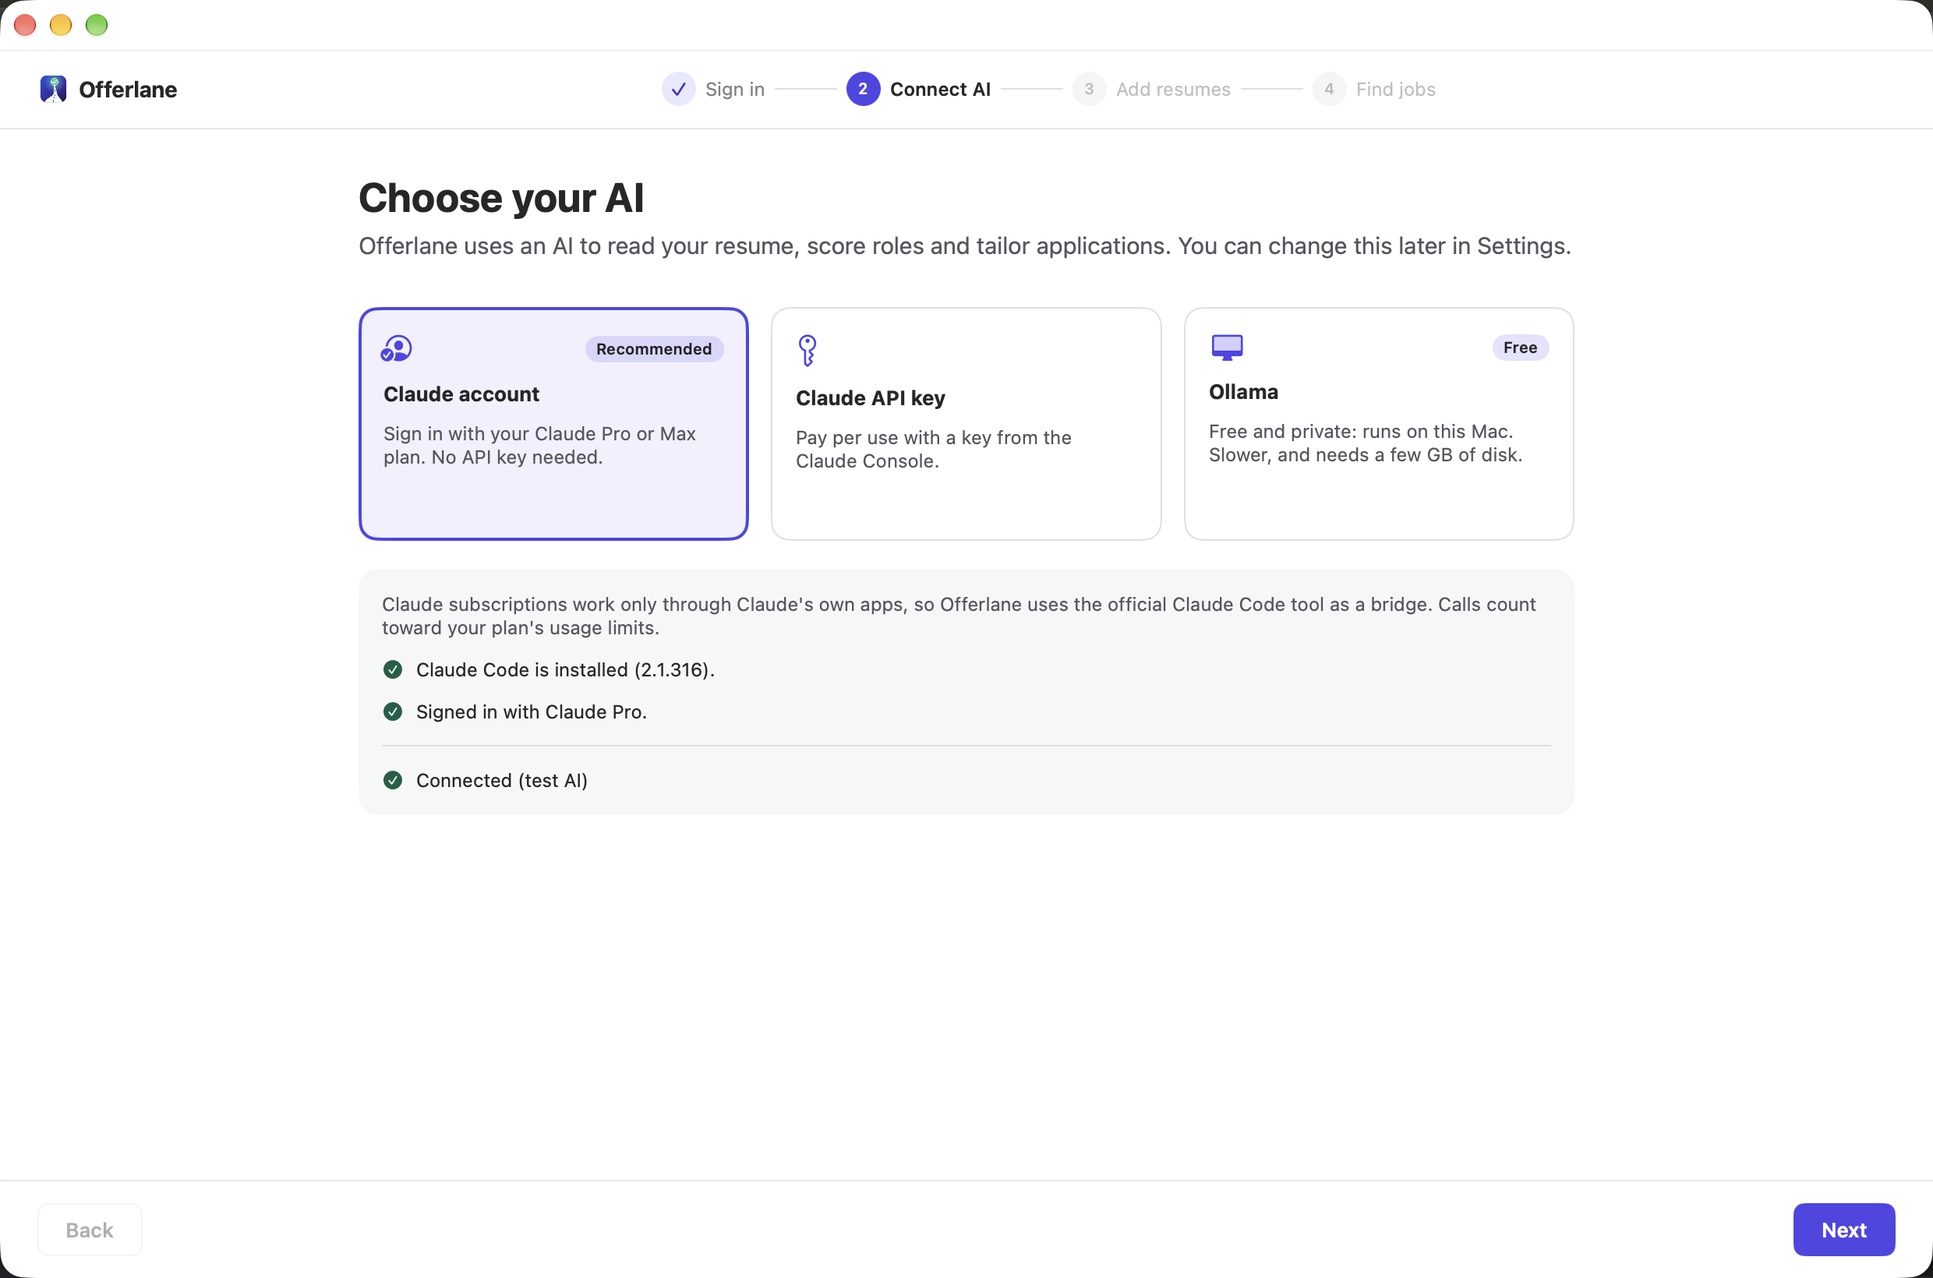
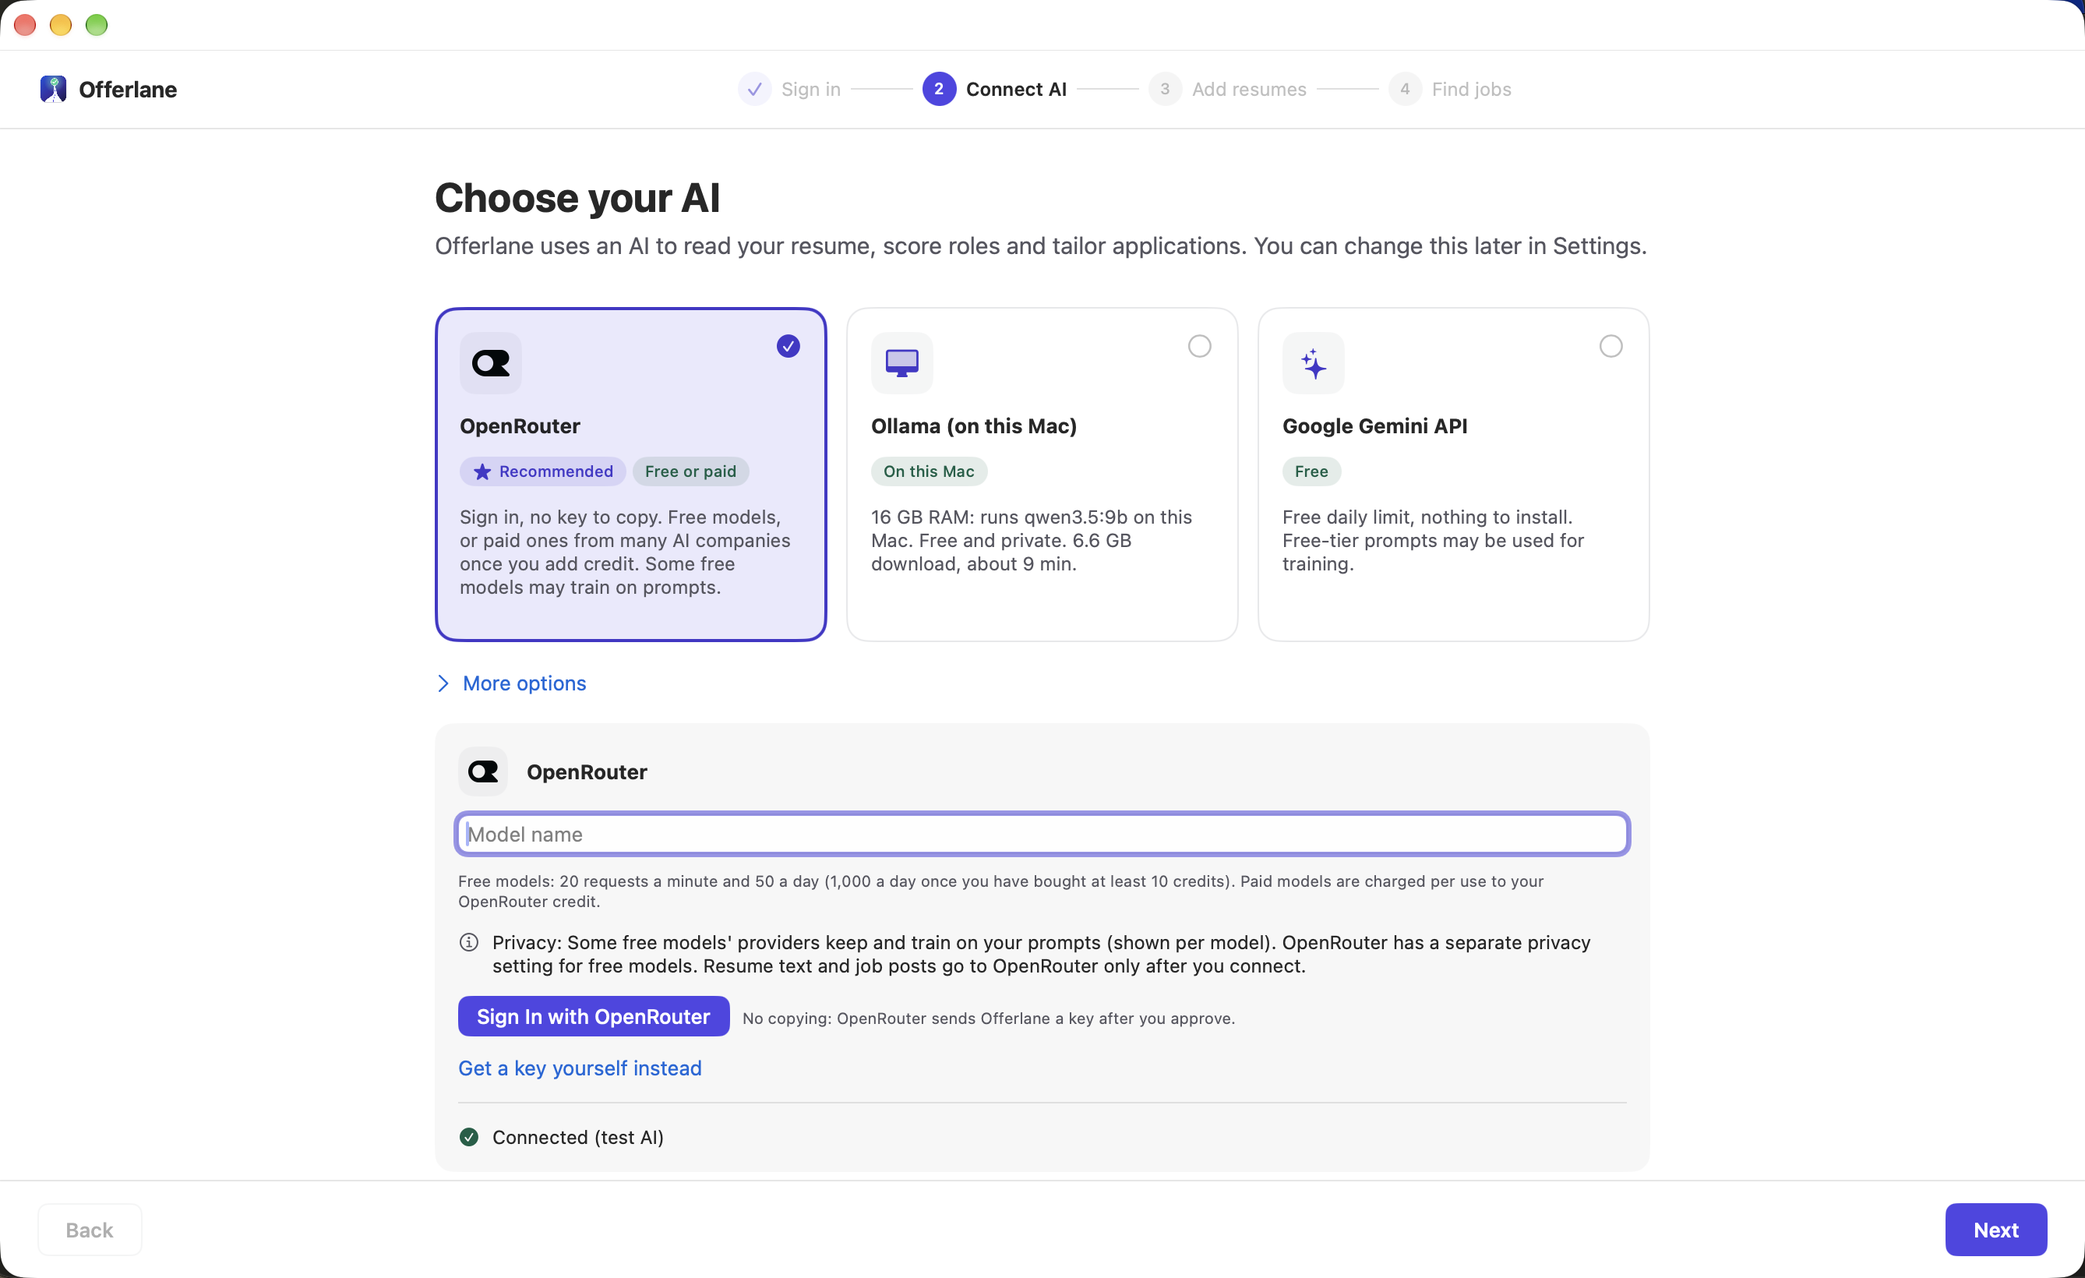
README and user guide for 0.3.0: new screenshots, full workflow, app tour; remove old screenshots

diff --git a/README.md b/README.md
@@ -17,23 +17,35 @@
   <img alt="Apple silicon and Intel" src="https://img.shields.io/badge/Apple%20silicon%20%2B%20Intel-universal-34D399">
 </p>
 
-<p align="center"><img alt="The Find screen" src="docs/screenshots/find-light.png" width="860"></p>
+<p align="center">
+  <picture>
+    <source media="(prefers-color-scheme: dark)" srcset="docs/screenshots/readme-discover-dark.png">
+    <img alt="Discover: roles scored for you, each waiting for your approval" src="docs/screenshots/readme-discover-light.png" width="860">
+  </picture>
+</p>
 
 ## How it works
 
+Offerlane covers the whole job search: set goals, find roles, close skill gaps, apply, prepare and track. You decide at every 👤 step.
+
 ```mermaid
 flowchart LR
-    A["🔎 Find Jobs<br/>checks your companies'<br/>career sites"] --> B["Free local pre-score<br/>title, skills, location,<br/>seniority filters"]
-    B --> C["🤖 AI scores the best 25<br/>in one batched call<br/>(answers cached)"]
-    C --> D{"👤 You approve<br/>or decline"}
+    S["🔌 Connect an AI<br/>one-click sign-in,<br/>free or paid"] --> A["🔎 Find Jobs<br/>career sites + remote feed;<br/>your watchlist ranks first"]
+    A --> B["Free local pre-score<br/>title, skills, location,<br/>seniority, visa rules"]
+    B --> C["🤖 AI scores the best roles<br/>in one batched call"]
+    C --> D{"👤 Approve<br/>or decline"}
     D -- declined --> X["Never shown again"]
-    D -- approved --> E["🤖 AI tailors your résumé<br/>reorders + rephrases your<br/>own bullets, drafts answers"]
-    E --> F{"👤 You review<br/>every change<br/>(invented numbers blocked)"}
+    D -- approved --> E["🤖 Tailors your résumé<br/>from your own bullets;<br/>invented numbers blocked"]
+    E --> F{"👤 Review<br/>every change"}
     F -- redo / edit --> E
-    F -- approve --> G["🖥 Offerlane fills the form<br/>in its own browser,<br/>at a human pace"]
-    G --> H["⏸ Stops at Submit"]
-    H --> I["👤 You click Submit"]
-    I --> J["📬 Replies in your inbox<br/>move the application:<br/>interview → offer"]
+    F -- approve --> G["🖥 Fills the form<br/>and stops at Submit"]
+    G --> H["👤 You click Submit"]
+    H --> I["📬 Pipeline<br/>email replies move cards;<br/>insights by résumé version"]
+    I --> J["🎤 Interview prep<br/>STAR stories from<br/>your real résumé"]
+    J --> K["💼 Offers<br/>compare and negotiate"]
+    A -. postings .-> L["📈 Skill gaps<br/>what employers ask for,<br/>with the postings behind it"]
+    L --> M["🎯 Goals and learning plan<br/>verified links only"]
+    M -. new targets .-> A
 ```
 
 Nothing is tailored, applied for or created without your say-so. Offerlane never presses Submit, never solves CAPTCHAs and never logs in to LinkedIn.
@@ -42,30 +54,33 @@ Nothing is tailored, applied for or created without your say-so. Offerlane never
 
 | 1. Sign in | 2. Connect an AI | 3. Add your résumé | 4. Find jobs |
 |---|---|---|---|
-| <img src="docs/screenshots/welcome-light.png" width="200" alt="Welcome screen"> | <img src="docs/screenshots/1-ai-light.png" width="200" alt="Choose your AI"> | <img src="docs/screenshots/2-resumes-light.png" width="200" alt="Add resumes"> | <img src="docs/screenshots/3-ready-light.png" width="200" alt="Ready to find jobs"> |
-| Email and password; Touch ID optional (Continue with Google is coming) | A free option (Ollama on your Mac, one-click OpenRouter sign-in, or a free Gemini, Groq or Cloudflare key) or a paid Claude API key | PDF, Word, text or LaTeX; several versions welcome | Titles and companies are drafted from your résumé; change anything later |
+| <img src="docs/screenshots/welcome-light.png" width="200" alt="Welcome screen"> | <img src="docs/screenshots/1-ai-light.png" width="200" alt="Choose your AI: Sign in with OpenRouter first"> | <img src="docs/screenshots/2-resumes-light.png" width="200" alt="Add resumes"> | <img src="docs/screenshots/3-ready-light.png" width="200" alt="Ready to find jobs"> |
+| Email and password; Touch ID optional | **Sign in with OpenRouter** (no key to copy), or Ollama, Gemini, Groq, Cloudflare, a Claude API key or your own endpoint | PDF, Word, text or LaTeX; several versions welcome | Titles and companies are drafted from your résumé; change anything later |
 
 ## What's new in 0.3.0
-- **Connect any AI in one click**: **Sign in with OpenRouter** for free models, or paid ones once you add credit. Or connect Ollama, Gemini, Groq, Cloudflare, a Claude API key or your own endpoint, with backups that take over when the first AI is down.
+- **Connect any AI in one click**: **Sign in with OpenRouter** for free models, or paid ones once you add credit. Or connect Ollama, Gemini, Groq, Cloudflare, a Claude API key or your own endpoint. Add backups that take over when the first AI is down.
 - **Wider search**: your company list boosts matches instead of limiting them.
 - **Skill gaps and learning plans** based on real postings and verified links.
-- **Career tools**: goals and paths, interview prep, resume health and ATS checks, insights, networking drafts, offer comparison and market trends.
+- **Career tools**: goals and paths, interview prep, résumé health and ATS checks, insights, networking drafts, offer comparison and market trends.
 - **Clearer errors**: every failure says what happened and what to do.
 
 Earlier releases: [release notes](docs/RELEASE_NOTES.md).
 
-## A closer look
+## A tour of the app
 
 | | |
 |---|---|
-| <img src="docs/screenshots/review-light.png" alt="Reviewing a tailored résumé" width="420"><br>**Review every change.** Your original in red, the tailored text in green, with a live PDF preview. | <img src="docs/screenshots/applications-light.png" alt="Applications board" width="420"><br>**Track every application.** Email replies move cards along by themselves. |
-| <img src="docs/screenshots/setup-center-dark.png" alt="Setup Center" width="420"><br>**Setup Center.** Checks your AI, internet, storage and Mac, and fixes problems with one click. | <img src="docs/screenshots/help-light.png" alt="In-app Help" width="420"><br>**Help built in.** Search answers, replay the tour, or create a diagnostics report. |
+| <img src="docs/screenshots/readme-home-light.png" alt="Home" width="420"><br>**Home.** Today's focus, your readiness for the role you want, and this week's numbers. | <img src="docs/screenshots/review-light.png" alt="Reviewing a tailored résumé" width="420"><br>**Review every change.** Your original in red, the tailored text in green, with a live PDF preview. Claims not in your résumé are blocked. |
+| <img src="docs/screenshots/readme-pipeline-light.png" alt="Pipeline board" width="420"><br>**Pipeline.** Every application on one board. Replies in your inbox move cards along by themselves. | <img src="docs/screenshots/readme-insights-light.png" alt="Application insights" width="420"><br>**Insights.** Reply and interview rates by résumé version, source and role type. |
+| <img src="docs/screenshots/readme-skills-light.png" alt="Skill gaps" width="420"><br>**Skill gaps.** Which skills the roles you want ask for, counted from real postings, and a learning plan from verified links. | <img src="docs/screenshots/readme-goals-light.png" alt="Goals and career paths" width="420"><br>**Goals.** One-, three- and five-year paths and pivot options, with readiness for each. |
+| <img src="docs/screenshots/readme-interview-prep-light.png" alt="Interview prep" width="420"><br>**Interview prep.** Questions for the role, a STAR story bank built only from your résumé, and a mock interviewer. | <img src="docs/screenshots/readme-resumes-light.png" alt="Résumés and résumé health" width="420"><br>**Résumés.** Several versions, a résumé health and ATS check per role, and LinkedIn and portfolio tips. |
+| <img src="docs/screenshots/readme-connect-ai-light.png" alt="Connect AI" width="420"><br>**Connect AI.** Sign in once, or pick a provider. Each option says what it does with your data before you connect. | <img src="docs/screenshots/setup-center-dark.png" alt="Setup Center" width="420"><br>**Setup Center.** Checks your AI, internet, storage and Mac, and fixes problems with one click. |
 
 ## Install
 1. Download **Offerlane-0.3.0.dmg** (or the .pkg) from [Releases](../../releases), and check it against `SHA256SUMS.txt` if you like.
 2. Open the DMG and drag **Offerlane** into **Applications**.
 3. The first time only: Offerlane isn't notarized by Apple yet, so macOS says it can't check it. Control-click Offerlane in Applications and choose **Open**, then **Open** again. On macOS 15 or later, go to **System Settings → Privacy & Security** and click **Open Anyway**. After that it opens normally.
-4. Open Offerlane and follow the four steps above. It takes about five minutes.
+4. Open Offerlane and follow the four steps above. It takes about ten minutes.
 
 Requires macOS 14 (Sonoma) or later, on Apple silicon or Intel. There's nothing else to install by hand: the Setup Center handles the AI.
 
@@ -82,13 +97,13 @@ Offerlane suggests three options for your Mac. The easiest is **Sign in with Ope
 | **Claude API key** | Pay per use: about $0.001 per Find Jobs run, about $0.03 per tailored résumé | Anthropic doesn't train on paid API content |
 | **Your own endpoint** | Depends on the endpoint | Goes to the endpoint you enter; check its terms |
 
-The app shows the same note before you connect, and **Help → What does each AI do with my data?** lists it for every option. Terms and limits change, so they come from an updatable list ([docs/PROVIDERS.md](docs/PROVIDERS.md)). This table was checked on 2026-11-11.
+The app shows the same note before you connect, and **Help → What does each AI do with my data?** lists it for every option. Terms and limits change, so the app keeps them in an updatable list. This table was checked on 2026-11-11.
 
 ## Privacy
 Everything stays on your Mac, and passwords and keys stay in your Keychain. Only résumé text and job descriptions go to the AI you choose, and only form answers go to the career sites you apply to. There's no telemetry. Read the [privacy policy](docs/PRIVACY.md).
 
 ## Other platforms
-Offerlane is built and tested for the Mac only. **Windows, Android and iOS are experimental and not built yet**: there's no installer or app for them, only a plan ([docs/WINDOWS_PLAN.md](docs/WINDOWS_PLAN.md)).
+Offerlane is built and tested for the Mac only. **Windows, Android and iOS are experimental and not built yet**: there's no installer or app for them, only a plan.
 
 ## Help and feedback
 - **In the app:** Help → Offerlane Help (⌘?).

diff --git a/docs/USER_GUIDE.md b/docs/USER_GUIDE.md
@@ -1,54 +1,27 @@
 # Offerlane: user guide
 
-Offerlane finds roles on your target companies' career sites, scores them, tailors your resume for the ones you approve, fills in the application at a human pace, and stops so **you** click Submit. Replies from employers update each application automatically.
-
-Nothing is tailored, applied for, or created without your say-so. Offerlane never submits an application, never solves CAPTCHAs, and never logs in to LinkedIn.
+Full, searchable help lives inside the app: **Help → Offerlane Help** (⌘?). **Help → Take the Tour** replays the short tour. Those answers ship with each version, so they always match the app you have. This page is the short version.
 
 ## Install
-1. Open **Offerlane.dmg** and drag **Offerlane** into **Applications**.
-2. Open Offerlane from Applications. If macOS says it can't check the developer, right-click the app → **Open** → **Open**. You only need to do this once; the app isn't notarized yet.
+1. Download **Offerlane-0.3.0.dmg** from [Releases](../../../releases), open it and drag **Offerlane** into **Applications**.
+2. The first time only: Control-click Offerlane in Applications and choose **Open**, then **Open** again. On macOS 15 or later, go to **System Settings → Privacy & Security** and click **Open Anyway**. The app isn't notarized by Apple yet.
 
-## First run (about 5 minutes)
-1. **AI**: pick one.
-   - **Claude account** (recommended): click **Install** if asked, then **Sign In…**; a browser window opens for your Claude login and the sheet closes by itself. Calls count toward your plan's usage limits.
-   - **Claude API key**: click **Get a Key**, paste it, then **Test Key**. Spend is shown in Settings.
-   - **Ollama** (free, runs on your Mac): **Install Ollama…**, then **Download Model**. It's slower and gives lower-quality tailoring.
-2. **Resumes**: drop in one or more resumes (PDF, Word, text or LaTeX) and give each a name, such as "IC" or "Manager". If you used previous-version (v2), click **Import** to bring over everything, including your LaTeX versions.
-3. **About you**: check the details used to fill forms, especially the countries where you can work without sponsorship.
-4. **Search**: the AI suggests titles and 40–60 companies. Edit the chips, add a company by name or by pasting its careers-page link, and set the score threshold.
-5. **Email** (optional): connect your inbox with an *app password* (use the "How to get an app password" link), then **Test Connection**.
-6. **Notifications**: allow them. Optionally scan the QR code to get alerts on your phone through the free ntfy app.
+## First run (about ten minutes)
+1. **Sign in**: create a local profile with email and password. Touch ID is optional. Everything stays on this Mac.
+2. **Connect an AI**: the easiest is **Sign In with OpenRouter**. Approve Offerlane in your browser and the key comes back by itself. Pick a free model (ids end in ":free"), or a paid one once you add OpenRouter credit. Other options are under **More options**: Ollama runs on your Mac for free, and Google Gemini, Groq and Cloudflare have free keys. You can also use a Claude API key (paid) or your own endpoint. Each option says what it does with your data before you connect. To use a key instead, click **Get a key yourself instead**, open the key page, copy the key, come back and press ⌘V.
+3. **Add your résumés**: PDF, Word, text or LaTeX. Add several versions, such as "IC" and "Manager", and Offerlane picks the best one for each role.
+4. **Find jobs**: check the titles and companies Offerlane drafted from your résumé, then click **Find Jobs**.
 
 ## Everyday use
-1. **Find Jobs** (⌘F) checks every career site and scores new roles. It takes about a minute.
-2. **Matches**: **Approve** the roles worth applying to and **Decline** the rest. Declined roles never come back. Weaker matches sit under "Show weaker matches".
-3. Offerlane tailors a resume for each approved role in the background, then notifies you.
-4. **Review** (from To Do):
-   - The screen shows every change: the original in red, the tailored text in green.
-   - If the AI tried to invent a number, the change was blocked and your original kept.
-   - **Edit** lets you change wording, reorder, restore, or add a left-out bullet; then click **Rebuild PDF**.
-   - You can also **Redo with Note…** or **Use My Resume As-Is**.
-   - When it's right, click **Approve & Apply**.
-5. **Apply window**: Offerlane opens the application and fills every page.
-   - If the site needs an account, it asks first ("Create a Workday account at … with your email?"). The password it creates is saved in your Keychain.
-   - It stops on the page with **Submit**. Check everything, then click Submit yourself.
-   - If something needs you (a CAPTCHA, an unusual question, a failed sign-in), the banner says what. Do it, then press **Continue**.
-6. **Applications**: a board of everything you've submitted. Email replies move cards automatically (interview, assessment, offer). Rejections are hidden but counted; tick **Show removed** to see them. Drag a card, or right-click → **Move to**, to change its status yourself.
+- **Home**: today's focus, your readiness for the role you want, and this week's numbers.
+- **Discover** (⌘F to find jobs): **Approve** roles worth applying to and **Decline** the rest. Declined roles never come back. Your company list is a watchlist that ranks those companies first. It never limits the search.
+- **Review**: every change to your résumé, with your original in red and the tailored text in green. Invented numbers are blocked. **Edit**, **Redo with Note…** or approve. Offerlane then fills in the application and stops at Submit, and **you** click Submit.
+- **Pipeline**: every application on a board. Replies in your inbox move cards along if you turn on email tracking. **Insights** shows reply rates by résumé version, source and role type. **Offers** compares offers and drafts negotiation notes.
+- **Goals**: one-, three- and five-year paths and pivot options, with your readiness for each.
+- **Skills**: the skills your target roles ask for, counted from real postings, plus a learning plan built only from verified links. A certificate goes on your résumé only after you mark it done.
+- **Interview Prep**: questions for the role, a STAR story bank built only from your résumé, and a mock interviewer.
+- **Résumés**: your versions, a résumé health and ATS check per role, and LinkedIn and portfolio tips.
+- **Connect AI**: add backup AIs that take over when the first one is busy or down. The **Setup Center** checks your AI, internet, storage and Mac, and **Repair Everything** fixes problems in one click.
 
-## Settings
-- **AI**: change provider; see calls and estimated cost per day.
-- **Edit Resumes / About You / Search**: re-opens those setup steps.
-- **Career-site accounts**: **Show Password** (asks for Touch ID or your Mac password), or **Forget** a saved password.
-- **Your data**: **Export Everything…** (JSON plus all PDFs; passwords aren't included) and **Delete All My Data…**.
-
-## Where things live
-- Data: `~/Library/Application Support/Offerlane/`. Tailored resumes and answers are under `Applications/`.
-- Passwords and keys: your Mac's Keychain only.
-- Logs: `~/Library/Logs/Offerlane/` (personal details redacted).
-- Only your resume text and job descriptions go to your AI provider, and only form answers go to the career sites you apply to. There's no telemetry.
-
-## Known limits
-- You submit every application yourself (by design), and CAPTCHAs need you.
-- Some custom career sites may stop at "Needs you" for a question Offerlane can't answer.
-- A Claude subscription is used through the Claude Code tool and counts toward your plan's limits.
-- Without a Developer ID the app isn't notarized, so macOS asks once on first open.
+## Something wrong?
+Open **Help → Offerlane Help** and search for it, or use **Help → Send Diagnostics…** to create a report with personal details removed. You see the full report before you share it.
